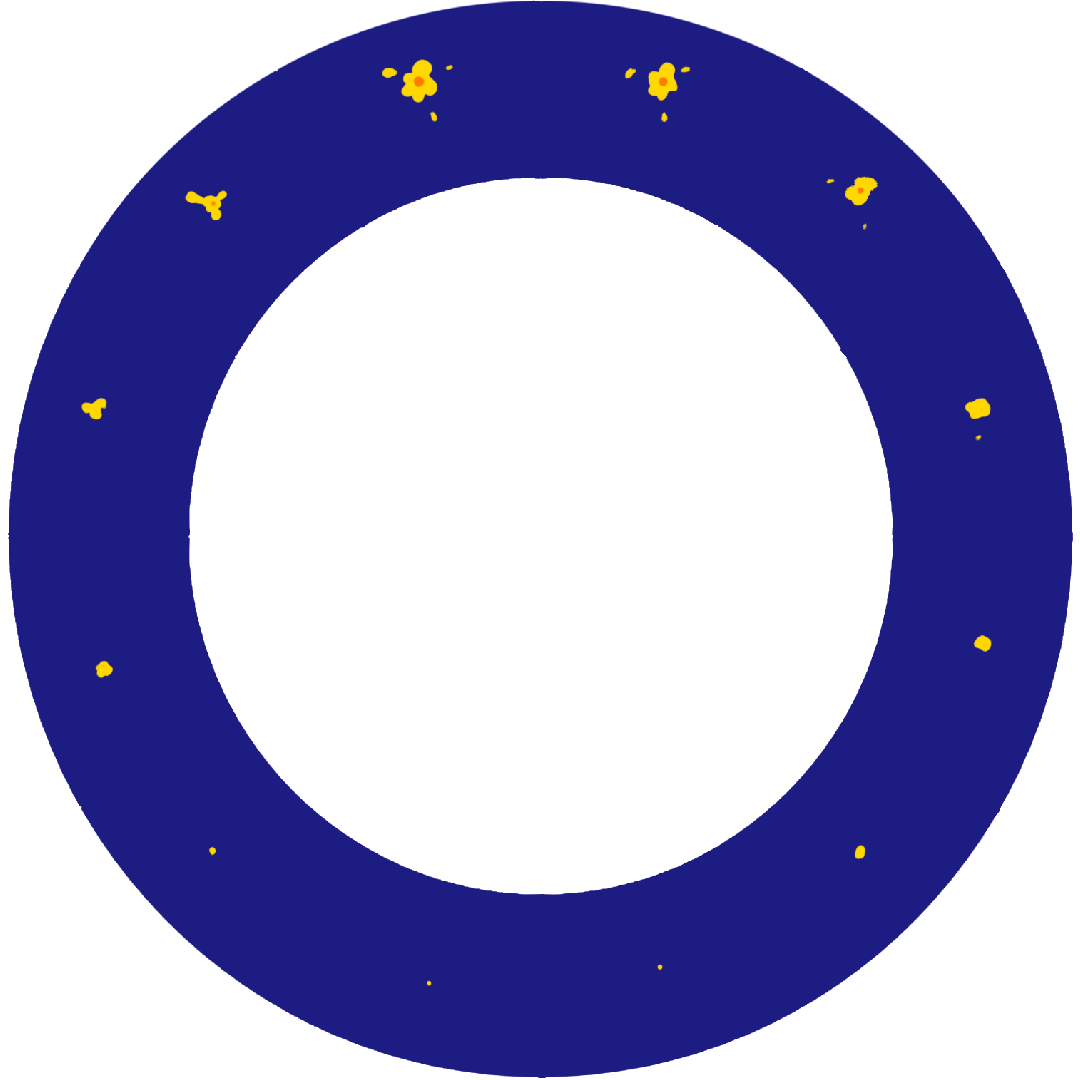
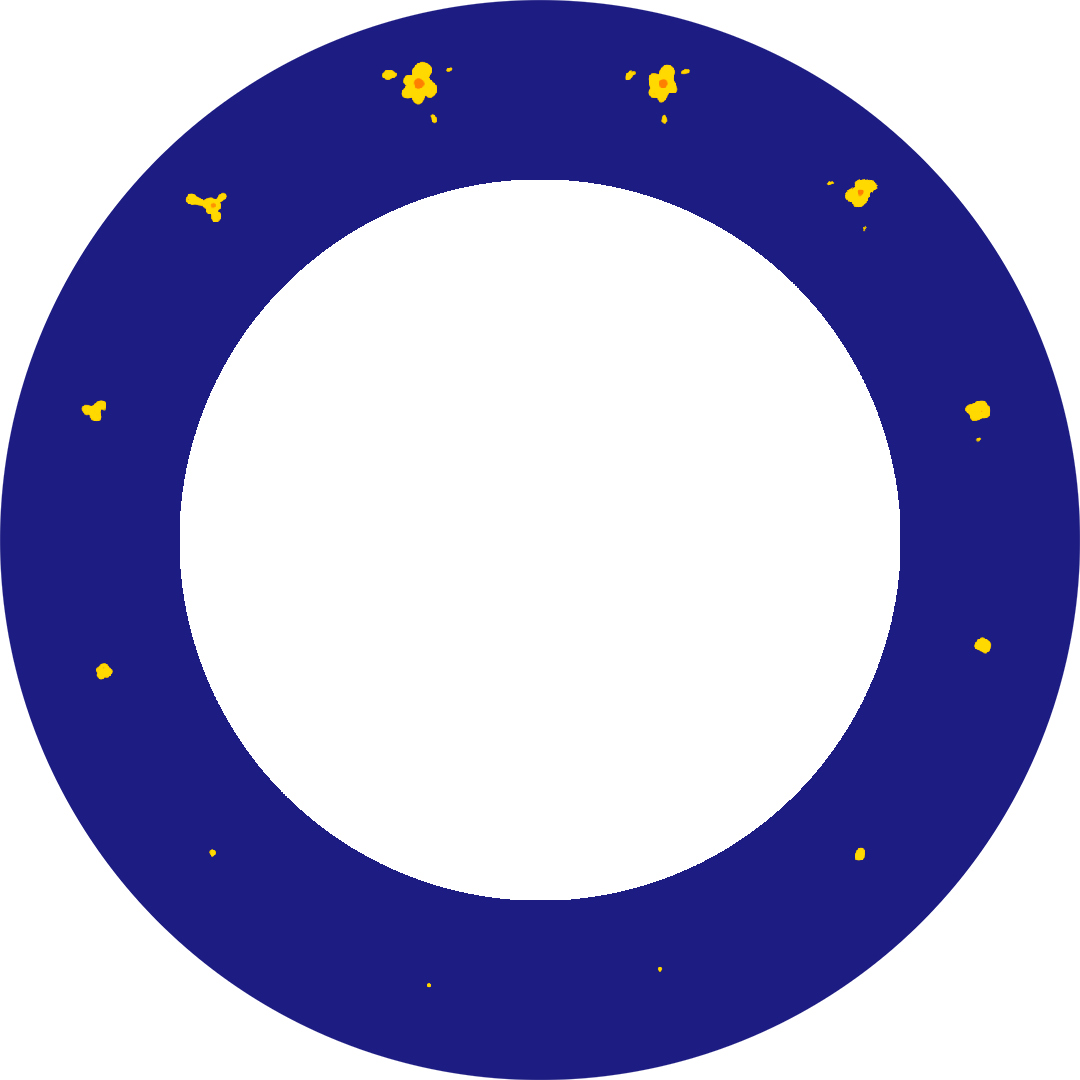
fixed margin & orientation

diff --git a/sketch.js b/sketch.js
@@ -9,6 +9,7 @@ let imgNr = [0,0,0];
 
 p5.disableFriendlyErrors = true;
 
+
 function preload(){
 
   fundo = loadImage('fundo.png');
@@ -37,6 +38,9 @@ function setup() {
   }
 }
 
+if (window.DeviceOrientationEvent) { window.addEventListener('orientationchange', function() { location.reload(); }, false); }
+
+
 function mousePressed() {
   let i = int(random(3));
   imgNr[i] = int(random(nrFiles));
@@ -51,12 +55,11 @@ function draw() {
   background(255); 
   angle += 30;
   rotate(angle);
-  scale(min(height/1280, width/1280));
+  scale(min(height/1180, width/1180));
   image(fundo, 0, 0);
   image(img_exterior[imgNr[0]], 0, 0);
   image(img_meio[imgNr[1]], 0, 0);
   image(img_interior[imgNr[2]], 0, 0);
-  //stroke(255,0,0);
   stroke(29, 28, 131);
   strokeWeight(6);
   noFill();

diff --git a/style.css b/style.css
@@ -1,6 +1,7 @@
 html, body {
   margin: 0;
   padding: 0;
+  background-color: white;
 }
 canvas {
   display: block;
